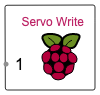
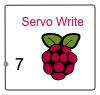
no message

Changed region(s): [[0.15, 0.6105, 0.24, 0.7368]]

diff --git a/app/repository/shapes/index.js b/app/repository/shapes/index.js
@@ -6114,11 +6114,11 @@ var circuit_hardware_raspi_ServoWrite = CircuitFigure.extend({
 
      this._super( $.extend({stroke:0, bgColor:null, width:90,height:85},attr), setter, getter);
      var port;
-     // gpio_1
+     // gpio_7
      port = this.addPort(new DecoratedInputPort(), new draw2d.layout.locator.XYRelPortLocator({x: 1.168733604659388, y: 69.56880579732196 }));
      port.setConnectionDirection(3);
      port.setBackgroundColor("#37B1DE");
-     port.setName("gpio_1");
+     port.setName("gpio_7");
      port.setMaxFanOut(1);
    },
 
@@ -6145,8 +6145,8 @@ var circuit_hardware_raspi_ServoWrite = CircuitFigure.extend({
        shape.data("name","Rectangle");
        
        // Label
-       shape = this.canvas.paper.text(0,0,'1');
-       shape.attr({"x":10.051860244193449,"y":59.13348492772366,"text-anchor":"start","text":"1","font-family":"\"Arial\"","font-size":16,"stroke":"#000000","fill":"#080808","stroke-scale":true,"font-weight":"normal","stroke-width":0,"opacity":1});
+       shape = this.canvas.paper.text(0,0,'7');
+       shape.attr({"x":10.051860244193449,"y":59.13348492772366,"text-anchor":"start","text":"7","font-family":"\"Arial\"","font-size":16,"stroke":"#000000","fill":"#080808","stroke-scale":true,"font-weight":"normal","stroke-width":0,"opacity":1});
        shape.data("name","Label");
        
        // Label

diff --git a/app/repository/shapes/circuit/hardware/raspi/ServoWrite.js b/app/repository/shapes/circuit/hardware/raspi/ServoWrite.js
@@ -15,11 +15,11 @@ var circuit_hardware_raspi_ServoWrite = CircuitFigure.extend({
 
      this._super( $.extend({stroke:0, bgColor:null, width:90,height:85},attr), setter, getter);
      var port;
-     // gpio_1
+     // gpio_7
      port = this.addPort(new DecoratedInputPort(), new draw2d.layout.locator.XYRelPortLocator({x: 1.168733604659388, y: 69.56880579732196 }));
      port.setConnectionDirection(3);
      port.setBackgroundColor("#37B1DE");
-     port.setName("gpio_1");
+     port.setName("gpio_7");
      port.setMaxFanOut(1);
    },
 
@@ -46,8 +46,8 @@ var circuit_hardware_raspi_ServoWrite = CircuitFigure.extend({
        shape.data("name","Rectangle");
        
        // Label
-       shape = this.canvas.paper.text(0,0,'1');
-       shape.attr({"x":10.051860244193449,"y":59.13348492772366,"text-anchor":"start","text":"1","font-family":"\"Arial\"","font-size":16,"stroke":"#000000","fill":"#080808","stroke-scale":true,"font-weight":"normal","stroke-width":0,"opacity":1});
+       shape = this.canvas.paper.text(0,0,'7');
+       shape.attr({"x":10.051860244193449,"y":59.13348492772366,"text-anchor":"start","text":"7","font-family":"\"Arial\"","font-size":16,"stroke":"#000000","fill":"#080808","stroke-scale":true,"font-weight":"normal","stroke-width":0,"opacity":1});
        shape.data("name","Label");
        
        // Label

diff --git a/app/backend/comm/raspi.js b/app/backend/comm/raspi.js
@@ -49,7 +49,7 @@ module.exports = {
         // for servos the frequency is 50Hz and the duty cycle is between 500..2500 which is mapped
         // within the servo to 0° and 180° depending on the servo type. (0° - 270° is possible as well)
         // map [0..5] => [500..2500]
-        let dutyCycle= 2000/5*parseFloat(msg.value)+5000
+        let dutyCycle= 2000/5*parseFloat(msg.value)+500
         pin.servoWrite(dutyCycle)
       })
     })
